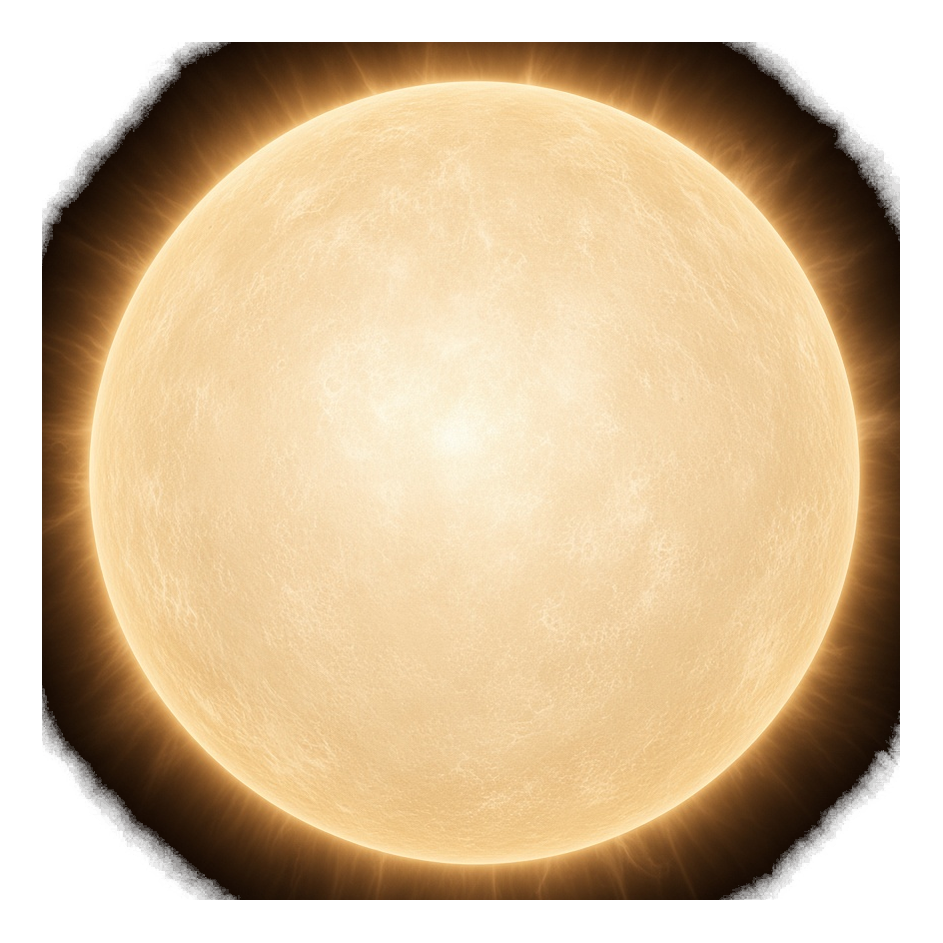
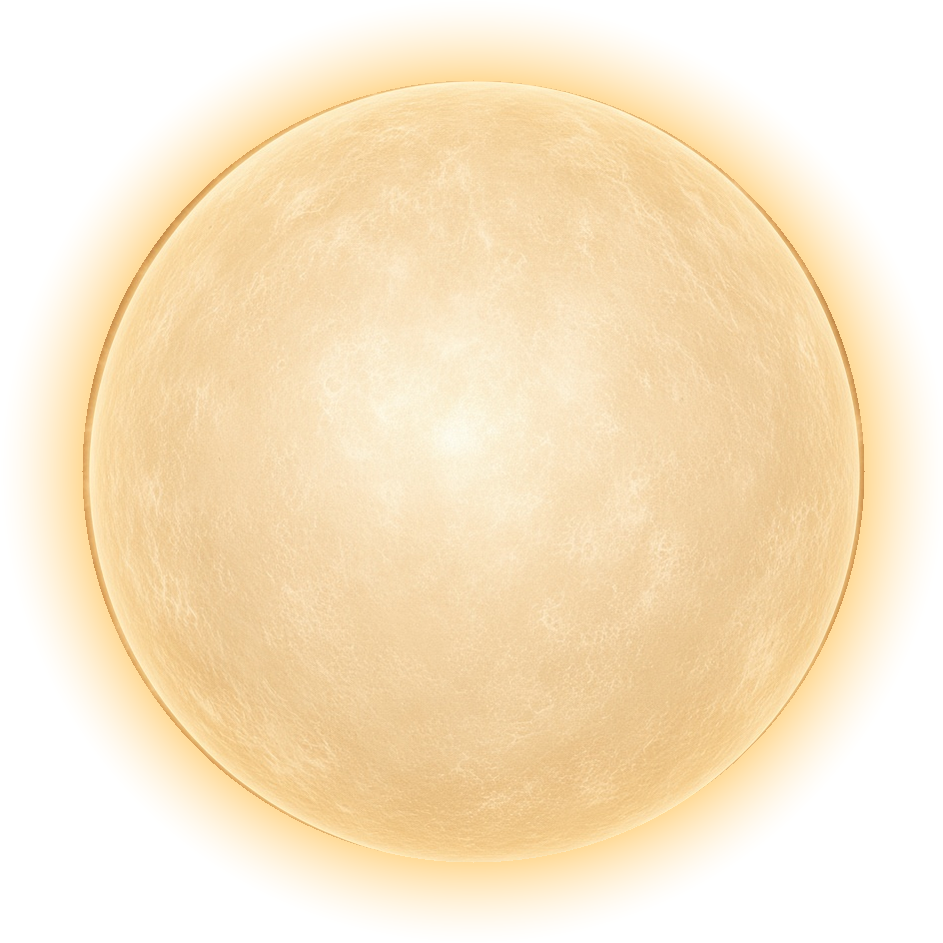
fix(hero): fade the sun into the starfield
The sun cutout no longer carries its own dark background. Only the disc and a soft circular corona remain, so the edge dissolves into the hero stars.

Changed region(s): [[0.0308, 0.0308, 0.9841, 0.9841]]

diff --git a/src/marketing/components/SpaceHero.css b/src/marketing/components/SpaceHero.css
@@ -44,11 +44,10 @@
 .space-stars { position: absolute; inset: -10%; background-size: cover; background-position: center; background-repeat: no-repeat; animation: space-stars 26s ease-in-out infinite alternate; pointer-events: none; }
 .space-orb { position: absolute; z-index: 1; left: 50%; top: 56%; width: 220vw; height: 220vw; margin-left: -110vw; border-radius: 50%; overflow: hidden; pointer-events: none; }
 .space-orb img { position: absolute; top: 0; left: 0; width: 128%; height: 100%; max-width: none; object-fit: cover; animation: space-surface 16s ease-in-out infinite alternate; }
-.space-sun { position: absolute; z-index: 1; left: 50%; top: calc(56vh - 14.4vw); width: 180vw; transform: translateX(-50%); pointer-events: none; }
-.space-sun img { display: block; width: 100%; height: auto; animation: space-sun-glow 7s ease-in-out infinite alternate; }
+.space-sun { position: absolute; z-index: 1; left: 50%; top: calc(56vh - 15.3vw); width: 180vw; transform: translateX(-50%); pointer-events: none; }
+.space-sun img { display: block; width: 100%; height: auto; }
 @keyframes space-stars { from { transform: translate3d(-2.5%, -1.2%, 0); } to { transform: translate3d(2.5%, 1.6%, 0); } }
 @keyframes space-surface { from { transform: translateX(0); } to { transform: translateX(-21.5%); } }
-@keyframes space-sun-glow { from { filter: drop-shadow(0 -6px 16px rgba(255, 186, 74, .28)); } to { filter: drop-shadow(0 -12px 28px rgba(255, 214, 130, .48)); } }
 .space-hero.is-sun-view .space-copy::before { content: ''; position: absolute; z-index: 0; left: 50%; top: 16%; width: min(820px, 78vw); height: 52%; transform: translateX(-50%); pointer-events: none; background: radial-gradient(ellipse at center, rgba(5, 10, 20, .62), transparent 72%); }
 .space-ui { position: absolute; inset: 0; z-index: 3; }
 .space-copy { position: absolute; inset: 0; transform: translateY(var(--vshift)); pointer-events: none; }
@@ -155,7 +154,7 @@
 }
 @media (prefers-reduced-motion: reduce) {
   .space-sky video { display: none; }
-  .space-stars, .space-orb img, .space-sun img { animation: none; }
+  .space-stars, .space-orb img { animation: none; }
   .space-stars { inset: 0; }
   .space-planet { transition: none; }
   .space-planet:hover, .space-planet:active { transform: none; }
